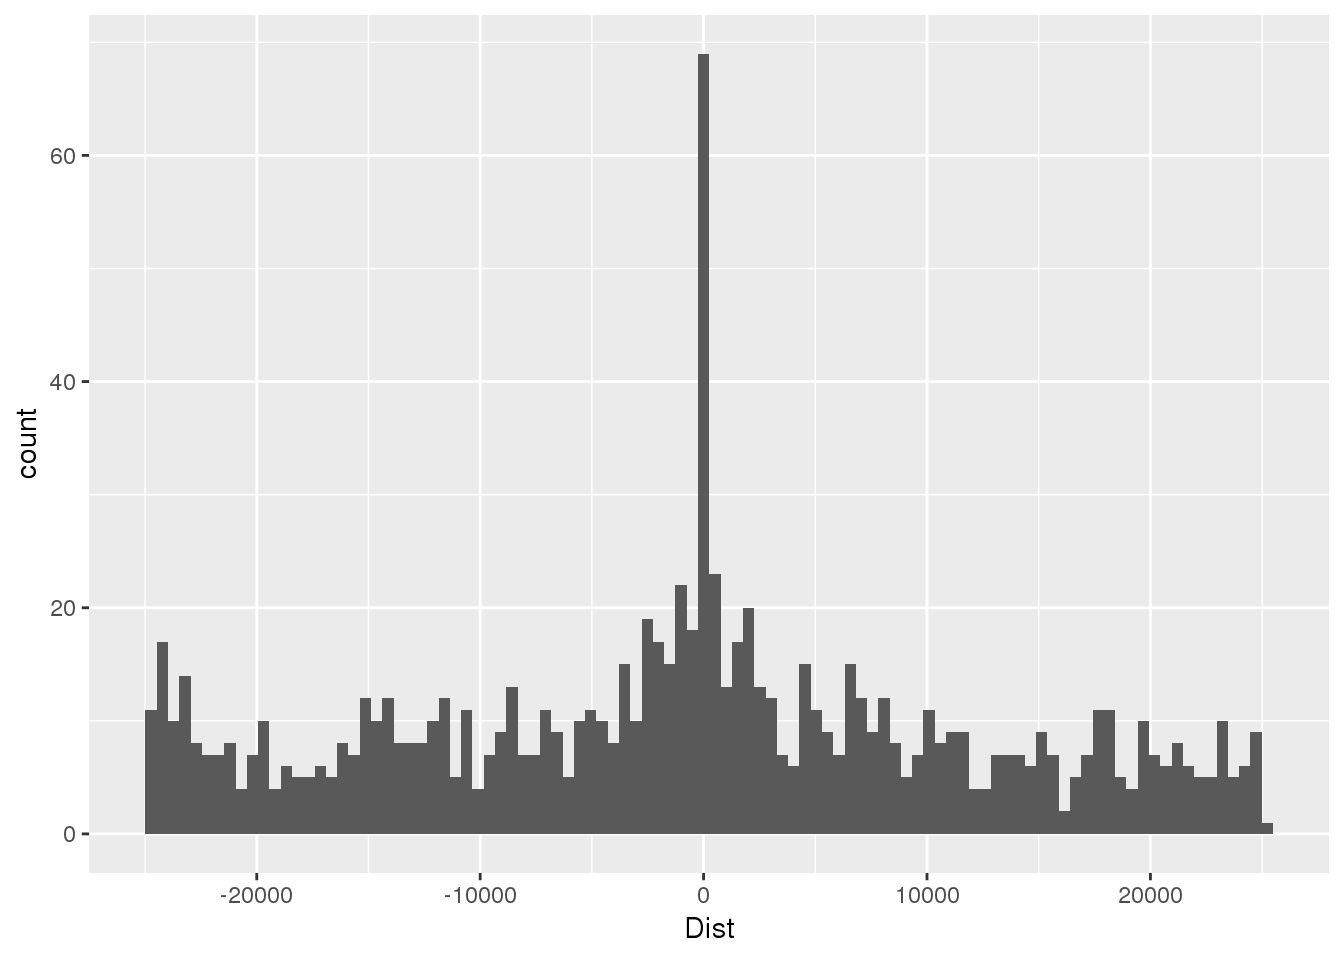
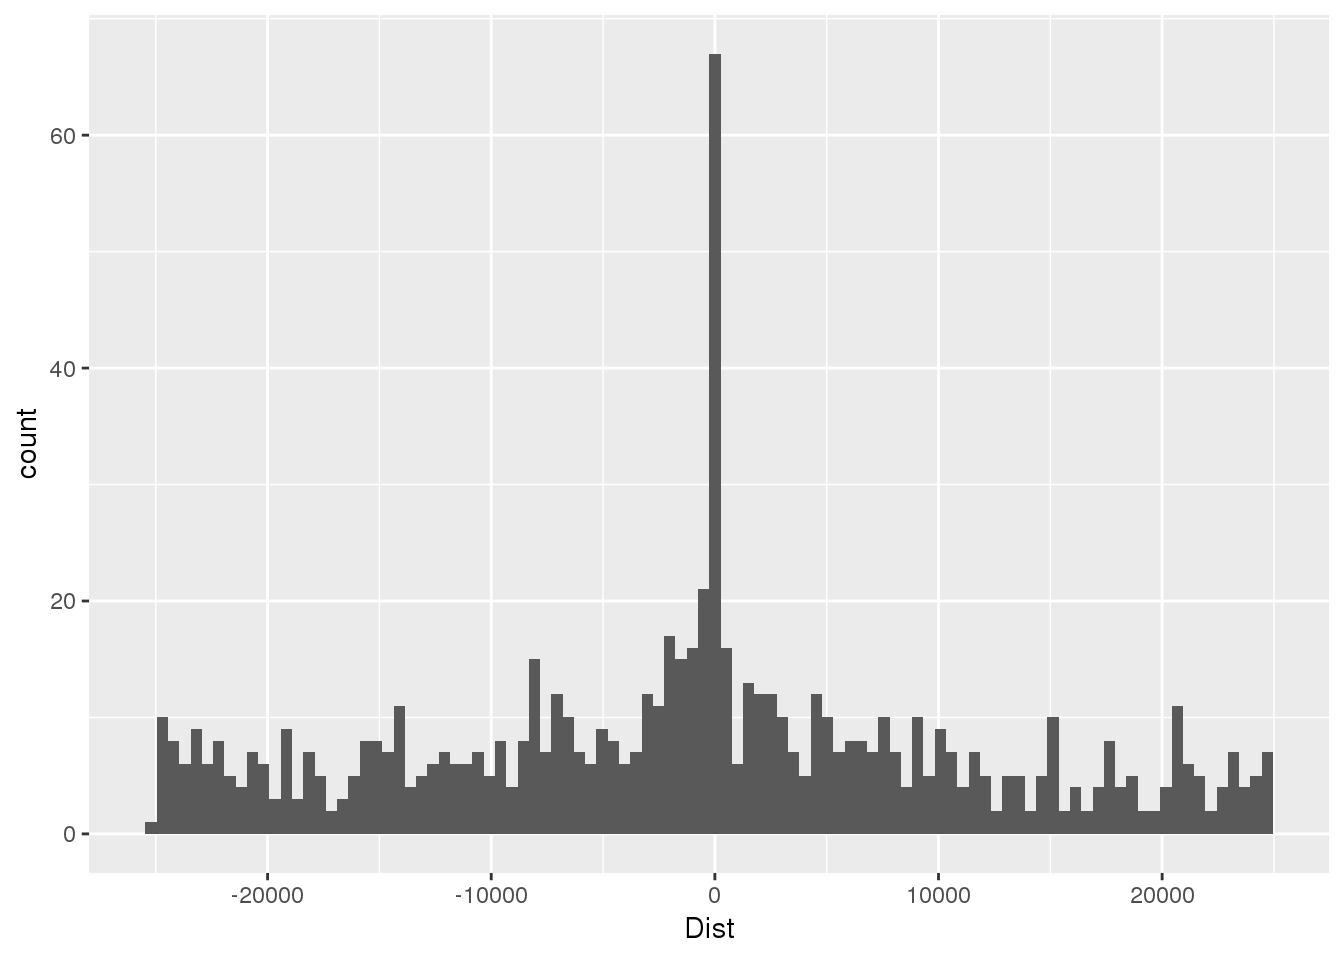
Build site.

diff --git a/docs/motifDisruption.html b/docs/motifDisruption.html
@@ -343,7 +343,7 @@ div.section {
 <div class="tab-content">
 <div id="summary" class="tab-pane fade in active">
 <p>
-<strong>Last updated:</strong> 2019-06-12
+<strong>Last updated:</strong> 2019-06-13
 </p>
 <p>
 <strong>Checks:</strong> <span class="glyphicon glyphicon-ok text-success" aria-hidden="true"></span> 6 <span class="glyphicon glyphicon-exclamation-sign text-danger" aria-hidden="true"></span> 0
@@ -422,10 +422,10 @@ This reproducible <a href="http://rmarkdown.rstudio.com">R Markdown</a> analysis
 <div class="panel panel-default">
 <div class="panel-heading">
 <p class="panel-title">
-<a data-toggle="collapse" data-parent="#workflowr-checks" href="#strongRepositoryversionstrongahrefhttpsgithubcombrimittlemanapaQTLtree1f203f7fbce00140046a8b314f1104df59df2835targetblank1f203f7a"> <span class="glyphicon glyphicon-ok text-success" aria-hidden="true"></span> <strong>Repository version:</strong> <a href="https://github.com/brimittleman/apaQTL/tree/1f203f7fbce00140046a8b314f1104df59df2835" target="_blank">1f203f7</a> </a>
+<a data-toggle="collapse" data-parent="#workflowr-checks" href="#strongRepositoryversionstrongahrefhttpsgithubcombrimittlemanapaQTLtree02db3a7cc3219be6a76e6f917ccc69c394b984b5targetblank02db3a7a"> <span class="glyphicon glyphicon-ok text-success" aria-hidden="true"></span> <strong>Repository version:</strong> <a href="https://github.com/brimittleman/apaQTL/tree/02db3a7cc3219be6a76e6f917ccc69c394b984b5" target="_blank">02db3a7</a> </a>
 </p>
 </div>
[2 lines of base64/hex data omitted]
 <div class="panel-body">
 <p>
 Great! You are using Git for version control. Tracking code development and connecting the code version to the results is critical for reproducibility. The version displayed above was the version of the Git repository at the time these results were generated. <br><br> Note that you need to be careful to ensure that all relevant files for the analysis have been committed to Git prior to generating the results (you can use <code>wflow_publish</code> or <code>wflow_git_commit</code>). workflowr only checks the R Markdown file, but you know if there are other scripts or data files that it depends on. Below is the status of the Git repository when the results were generated:
@@ -435,6 +435,7 @@ Ignored files:
     Ignored:    .DS_Store
     Ignored:    .Rhistory
     Ignored:    .Rproj.user/
+    Ignored:    data/.DS_Store
     Ignored:    output/.DS_Store
 
 Untracked files:
@@ -444,6 +445,7 @@ Untracked files:
     Untracked:  _workflowr.yml
     Untracked:  analysis/._PASdescriptiveplots.Rmd
     Untracked:  analysis/._cuttoffPercUsage.Rmd
+    Untracked:  analysis/QTLexampleplots.Rmd
     Untracked:  analysis/cuttoffPercUsage.Rmd
     Untracked:  analysis/eQTLoverlap.Rmd
     Untracked:  analysis/oldstuffNotNeeded.Rmd
@@ -670,6 +672,7 @@ Untracked files:
     Untracked:  code/apaQTLCorrectPvalMakeQQ_4pc.R
     Untracked:  code/apaQTL_Nominal_4pc.sh
     Untracked:  code/apaQTL_permuted.4pc.sh
+    Untracked:  code/apafacetboxplots.R
     Untracked:  code/apaqtlfacetboxplots.R
     Untracked:  code/assignNucIntonpeak2intronlocs.sh
     Untracked:  code/assignPeak2Intronicregion.err
@@ -828,6 +831,7 @@ Untracked files:
     Untracked:  code/vcf_keepsnps.out
     Untracked:  code/zipandtabPhen.err
     Untracked:  code/zipandtabPhen.out
+    Untracked:  data/._.DS_Store
     Untracked:  data/ApaByEgene/
     Untracked:  data/CompareOldandNew/
     Untracked:  data/DTmatrix/
@@ -902,12 +906,8 @@ Untracked files:
     Untracked:  output/meanCorrelationPhenotypes.svg
 
 Unstaged changes:
-    Modified:   analysis/DiffIsoAnalysis.Rmd
-    Modified:   analysis/PASusageQC.Rmd
     Modified:   analysis/Readdistagainstfeatures.Rmd
-    Modified:   analysis/choosePCs.Rmd
-    Modified:   analysis/corrbetweenind.Rmd
-    Modified:   analysis/mapapaQTL.Rmd
+    Modified:   analysis/index.Rmd
     Modified:   analysis/nascenttranscription.Rmd
     Modified:   analysis/nucintronicanalysis.Rmd
     Modified:   analysis/overlapapaqtlsandeqtls.Rmd
@@ -916,13 +916,16 @@ Unstaged changes:
     Modified:   code/Snakefile
     Deleted:    code/Upstream10Bases_general.py
     Modified:   code/apaQTLCorrectPvalMakeQQ.R
+    Modified:   code/apaQTL_Nominal.sh
     Modified:   code/apaQTL_permuted.sh
     Modified:   code/apaQTLsnake.err
     Modified:   code/bam2bw.sh
     Modified:   code/bed2saf.py
     Modified:   code/cluster.json
+    Modified:   code/clusterfiltPAS.json
     Modified:   code/config.yaml
     Modified:   code/environment.yaml
+    Modified:   code/makePheno.py
     Deleted:    code/test.txt
 
 </code></pre>
@@ -962,6 +965,40 @@ Message
 </tr>
 </thead>
 <tbody>
+<tr>
+<td>
+Rmd
+</td>
+<td>
+<a href="https://github.com/brimittleman/apaQTL/blob/02db3a7cc3219be6a76e6f917ccc69c394b984b5/analysis/motifDisruption.Rmd" target="_blank">02db3a7</a>
+</td>
+<td>
+brimittleman
+</td>
+<td>
+2019-06-13
+</td>
+<td>
+fixbug
+</td>
+</tr>
+<tr>
+<td>
+html
+</td>
+<td>
+<a href="https://rawcdn.githack.com/brimittleman/apaQTL/e783f5c94de855600d239dd0b427e1721d36890e/docs/motifDisruption.html" target="_blank">e783f5c</a>
+</td>
+<td>
+brimittleman
+</td>
+<td>
+2019-06-12
+</td>
+<td>
+Build site.
+</td>
+</tr>
 <tr>
 <td>
 Rmd
@@ -1022,12 +1059,12 @@ add motif disruption
 </div>
 <p>In this analysis I will identify apaQTL that modify signal sites for the associated PAS. To do this I will look at the sequences 5bp up and downtream of each QTL snp and look for evidence of AATAAA disruption.</p>
 <pre class="r"><code>library(tidyverse)</code></pre>
-<pre><code>── Attaching packages ─────────────────────────────────────────────────────────────────────────── tidyverse 1.2.1 ──</code></pre>
+<pre><code>── Attaching packages ─────────────────────────────────────────────────────────────── tidyverse 1.2.1 ──</code></pre>
 <pre><code>✔ ggplot2 3.1.1       ✔ purrr   0.3.2  
 ✔ tibble  2.1.1       ✔ dplyr   0.8.0.1
 ✔ tidyr   0.8.3       ✔ stringr 1.3.1  
 ✔ readr   1.3.1       ✔ forcats 0.3.0  </code></pre>
-<pre><code>── Conflicts ────────────────────────────────────────────────────────────────────────────── tidyverse_conflicts() ──
+<pre><code>── Conflicts ────────────────────────────────────────────────────────────────── tidyverse_conflicts() ──
 ✖ dplyr::filter() masks stats::filter()
 ✖ dplyr::lag()    masks stats::lag()</code></pre>
 <pre class="r"><code>library(BSgenome)</code></pre>
@@ -1119,10 +1156,85 @@ write.table(nucQTLbed, file=&quot;../data/motifdistrupt/NucQTLregion.bed&quot;, 
 <p>First plot the distance:</p>
 <pre class="r"><code>ggplot(totSeq,aes(x=Dist)) + geom_histogram(bins=100)</code></pre>
 <p><img src="figure/motifDisruption.Rmd/unnamed-chunk-8-1.png" width="672" style="display: block; margin: auto;" /></p>
+<p>
+<button type="button" class="btn btn-default btn-xs btn-workflowr btn-workflowr-fig" data-toggle="collapse" data-target="#fig-unnamed-chunk-8-1">
+Past versions of unnamed-chunk-8-1.png
+</button>
+</p>
+<div id="fig-unnamed-chunk-8-1" class="collapse">
+<div class="table-responsive">
+<table class="table table-condensed table-hover">
+<thead>
+<tr>
+<th>
+Version
+</th>
+<th>
+Author
+</th>
+<th>
+Date
+</th>
+</tr>
+</thead>
+<tbody>
+<tr>
+<td>
+<a href="https://github.com/brimittleman/apaQTL/blob/e783f5c94de855600d239dd0b427e1721d36890e/docs/figure/motifDisruption.Rmd/unnamed-chunk-8-1.png" target="_blank">e783f5c</a>
+</td>
+<td>
+brimittleman
+</td>
+<td>
+2019-06-12
+</td>
+</tr>
+</tbody>
+</table>
+</div>
+</div>
 <pre class="r"><code>nucSeq=read.table(&quot;../data/motifdistrupt/NucQTLregionSequences.bed&quot;, header = F, stringsAsFactors = F, col.names =c(&quot;chr&quot;,&quot;start&quot;, &quot;end&quot;, &quot;name&quot;, &quot;Dist&quot;, &quot;strand&quot;, &quot;pctAT&quot;, &quot;pctGC&quot;, &quot;numA&quot;, &quot;numC&quot;, &quot;numG&quot;, &quot;numT&quot;, &quot;numN&quot;, &quot;numoth&quot;, &quot;length&quot;, &quot;seq&quot;) )</code></pre>
 <p>First plot the distance:</p>
 <pre class="r"><code>ggplot(nucSeq,aes(x=Dist)) + geom_histogram(bins=100)</code></pre>
-<p><img src="figure/motifDisruption.Rmd/unnamed-chunk-10-1.png" width="672" style="display: block; margin: auto;" /> Try with getting the sequences with bedtools getfasta (This reverse compliments the negative strand)</p>
+<p><img src="figure/motifDisruption.Rmd/unnamed-chunk-10-1.png" width="672" style="display: block; margin: auto;" /></p>
+<p>
+<button type="button" class="btn btn-default btn-xs btn-workflowr btn-workflowr-fig" data-toggle="collapse" data-target="#fig-unnamed-chunk-10-1">
+Past versions of unnamed-chunk-10-1.png
+</button>
+</p>
+<div id="fig-unnamed-chunk-10-1" class="collapse">
+<div class="table-responsive">
+<table class="table table-condensed table-hover">
+<thead>
+<tr>
+<th>
+Version
+</th>
+<th>
+Author
+</th>
+<th>
+Date
+</th>
+</tr>
+</thead>
+<tbody>
+<tr>
+<td>
+<a href="https://github.com/brimittleman/apaQTL/blob/e783f5c94de855600d239dd0b427e1721d36890e/docs/figure/motifDisruption.Rmd/unnamed-chunk-10-1.png" target="_blank">e783f5c</a>
+</td>
+<td>
+brimittleman
+</td>
+<td>
+2019-06-12
+</td>
+</tr>
+</tbody>
+</table>
+</div>
+</div>
+<p>Try with getting the sequences with bedtools getfasta (This reverse compliments the negative strand)</p>
 <pre class="bash"><code>sbatch getQTLfastq.sh</code></pre>
 <p>extract the sequences from these to match with the nuc file above. This is important because this uses the reverse compliment. The snp is the 6th letter.<br />
 (fraction is Tot /Nuc)</p>
@@ -1133,51 +1245,52 @@ TotSeqComp=as.data.frame(cbind(totSeq,Totsequp)) %&gt;% mutate(sig=ifelse(grepl(
 TotSeqCompSig=TotSeqComp %&gt;% filter(sig==1)
 TotSeqCompSig</code></pre>
 <pre><code>  chr     start       end                     name Dist strand    pctAT
-1  19  16438656  16438667      KLF2:peak64649:utr3  454      + 0.909091
-2  19  16438656  16438667      KLF2:peak64650:utr3   63      + 0.909091
-3  19  58433644  58433655    ZNF418:peak68038:utr3   18      - 0.818182
-4   2 197855147 197855158 ANKRD44:peak77452:intron   20      - 1.000000
-5   7 107562562 107562573       DLD:peak124968:end   61      + 0.727273
+1  15 101610289 101610300     LRRK1:peak47802:utr3   67      + 0.818182
+2  19  16438656  16438667      KLF2:peak64649:utr3  454      + 0.909091
+3  19  16438656  16438667      KLF2:peak64650:utr3   63      + 0.909091
+4  19  43978507  43978518    PHLDB3:peak66481:utr3 -746      - 1.000000
+5   2 131132114 131132125    PTPN18:peak74525:utr3 -776      + 0.818182
+6   2 197855147 197855158 ANKRD44:peak77452:intron   20      - 1.000000
      pctGC numA numC numG numT numN numoth length         seq  CorrectSeq
-1 0.090909    8    1    0    2    0      0     11 AAAATAAAACT AAAATAAAACT
+1 0.181818    8    1    1    1    0      0     11 AAAATAAACAG AAAATAAACAG
 2 0.090909    8    1    0    2    0      0     11 AAAATAAAACT AAAATAAAACT
-3 0.181818    3    2    0    6    0      0     11 cttttattaac GTTAATAAAAG
-4 0.000000    5    0    0    6    0      0     11 TTTATTTAAAA TTTTAAATAAA
-5 0.272727    6    3    0    2    0      0     11 ctcaataaaca CTCAATAAACA
+3 0.090909    8    1    0    2    0      0     11 AAAATAAAACT AAAATAAAACT
+4 0.000000    1    0    0   10    0      0     11 ttttatttttt AAAAAATAAAA
+5 0.181818    8    0    2    1    0      0     11 AGAAATAAAAG AGAAATAAAAG
+6 0.000000    5    0    0    6    0      0     11 TTTATTTAAAA TTTTAAATAAA
   sig
 1   1
 2   1
 3   1
 4   1
-5   1</code></pre>
+5   1
+6   1</code></pre>
 <pre class="r"><code>Nucsequp=read.table(&quot;../data/motifdistrupt/NucQTLregionSequenceOnly.txt&quot;, header = F, stringsAsFactors = F, col.names = &quot;CorrectSeq&quot;)
 NucSeqComp=as.data.frame(cbind(nucSeq,Nucsequp)) %&gt;% mutate(sig=ifelse(grepl(&quot;AATAAA&quot;,CorrectSeq),1, 0))
 NucSeqCompSig=NucSeqComp %&gt;% filter(sig==1)
 NucSeqCompSig</code></pre>
-<pre><code>   chr     start       end                     name   Dist strand    pctAT
-1   11 121500616 121500627     SORL1:peak26194:utr3     64      + 0.818182
-2   12  54712768  54712779   COPZ1:peak30032:intron  -7514      + 0.909091
-3   15 101610289 101610300     LRRK1:peak47802:utr3     67      + 0.818182
-4   15 101610289 101610300     LRRK1:peak47806:utr3  -2713      + 0.818182
-5   19  16438656  16438667      KLF2:peak64649:utr3    454      + 0.909091
-6   19  16438656  16438667      KLF2:peak64650:utr3     63      + 0.909091
-7   19  58433644  58433655    ZNF418:peak68038:utr3     18      - 0.818182
-8    2 197855147 197855158 ANKRD44:peak77452:intron     20      - 1.000000
-9    4  84367754  84367765   MRPS18C:peak99426:utr3 -14538      + 0.727273
-10   4  84367754  84367765   MRPS18C:peak99427:utr3 -14730      + 0.727273
-11   6 167409236 167409247   MIR3939:peak119106:end   1476      - 1.000000
+<pre><code>   chr     start       end                   name   Dist strand    pctAT
+1   15 101610289 101610300   LRRK1:peak47802:utr3     67      + 0.818182
+2   15 101610289 101610300   LRRK1:peak47806:utr3  -2713      + 0.818182
+3   19  16438656  16438667    KLF2:peak64649:utr3    454      + 0.909091
+4   19  16438656  16438667    KLF2:peak64650:utr3     63      + 0.909091
+5   19  43978507  43978518  PHLDB3:peak66481:utr3   -746      - 1.000000
+6   19  58433644  58433655  ZNF418:peak68038:utr3     18      - 0.818182
+7    2  33775278  33775289 RASGRP3:peak69728:utr3 -12759      + 1.000000
+8    4  84367754  84367765 MRPS18C:peak99427:utr3 -14730      + 0.727273
+9    6 167409236 167409247 MIR3939:peak119106:end   1476      - 1.000000
+10   6 167409236 167409247 MIR3939:peak119107:end  -1662      - 1.000000
       pctGC numA numC numG numT numN numoth length         seq  CorrectSeq
-1  0.181818    7    2    0    2    0      0     11 TAATAAAAACC TAATAAAAACC
-2  0.090909    6    1    0    4    0      0     11 catttaataaa CATTTAATAAA
-3  0.181818    8    1    1    1    0      0     11 AAAATAAACAG AAAATAAACAG
-4  0.181818    8    1    1    1    0      0     11 AAAATAAACAG AAAATAAACAG
-5  0.090909    8    1    0    2    0      0     11 AAAATAAAACT AAAATAAAACT
-6  0.090909    8    1    0    2    0      0     11 AAAATAAAACT AAAATAAAACT
-7  0.181818    3    2    0    6    0      0     11 cttttattaac GTTAATAAAAG
-8  0.000000    5    0    0    6    0      0     11 TTTATTTAAAA TTTTAAATAAA
-9  0.272727    7    2    1    1    0      0     11 agccAATAAAA AGCCAATAAAA
-10 0.272727    7    2    1    1    0      0     11 agccAATAAAA AGCCAATAAAA
-11 0.000000    2    0    0    9    0      0     11 tattttttatt AATAAAAAATA
+1  0.181818    8    1    1    1    0      0     11 AAAATAAACAG AAAATAAACAG
+2  0.181818    8    1    1    1    0      0     11 AAAATAAACAG AAAATAAACAG
+3  0.090909    8    1    0    2    0      0     11 AAAATAAAACT AAAATAAAACT
+4  0.090909    8    1    0    2    0      0     11 AAAATAAAACT AAAATAAAACT
+5  0.000000    1    0    0   10    0      0     11 ttttatttttt AAAAAATAAAA
+6  0.181818    3    2    0    6    0      0     11 cttttattaac GTTAATAAAAG
+7  0.000000    8    0    0    3    0      0     11 ataataaataa ATAATAAATAA
+8  0.272727    7    2    1    1    0      0     11 agccAATAAAA AGCCAATAAAA
+9  0.000000    2    0    0    9    0      0     11 tattttttatt AATAAAAAATA
+10 0.000000    2    0    0    9    0      0     11 tattttttatt AATAAAAAATA
    sig
 1    1
 2    1
@@ -1188,8 +1301,7 @@ NucSeqCompSig</code></pre>
 7    1
 8    1
 9    1
-10   1
-11   1</code></pre>
+10   1</code></pre>
 <p>These are pretty far from the peak and probably not the mechanism for these.</p>
 <p>I can look at this another way by subsetting to those close to the peak.</p>
 <pre class="r"><code>TotSeqComp_Close=TotSeqComp %&gt;% filter(abs(Dist)&lt;200) %&gt;% select(name,Dist,CorrectSeq,sig)
@@ -1198,7 +1310,6 @@ NucSeqComp_Close=NucSeqComp %&gt;% filter(abs(Dist)&lt;200) %&gt;% select(name,D
 <p><strong>Nuclear: </strong></p>
 <p>Disrupt: - ZNF418 rs75991626 T C (break signal site for peak68038), also associated with increased usage of the downstream UTR pas.</p>
 <ul>
-<li><p>SORL1:peak26194:utr3 rs75085036 A-T disrupt signal site for UTR pas</p></li>
 <li><p>LRRK1:peak47802:utr3 rs15342 T-C disrupt signal site for peak47802</p></li>
 <li><p>KLF2:peak64650:utr3 rs11086029 T- A disrupt signal site for peak64650, increased usage of upstream pas still in UTR</p></li>
 <li><p>ANKRD44:peak77452:intron rs715185 T-C disrupt signal site for ANKRD44</p></li>
@@ -1209,8 +1320,12 @@ NucSeqComp_Close=NucSeqComp %&gt;% filter(abs(Dist)&lt;200) %&gt;% select(name,D
 <ul>
 <li><p>ANKRD44:peak77452:intron rs715185 T-C disrupt signal site for ANKRD44</p></li>
 <li><p>KLF2:peak64650:utr3 rs11086029 T- A disrupt signal site for peak64650, increased usage of upstream pas still in UTR</p></li>
-<li><p>DLD:peak124968:end rs144143960 A-G disrupt site for peak124968</p></li>
 </ul>
+<p>Make boxplots for these:</p>
+<p>I wrote the code for these in the <a href="%22QTLexampleplots.html%22">example plots analysis</a></p>
+<p>Fraction=$1 gene=$2 chrom=$3 snp=$4 peakID=$5</p>
+<pre class="bash"><code>sbatch run_qtlFacetBoxplots.sh Nuclear ZNF418 19 rs75991626 peak68038
+</code></pre>
 <p>This is not the best way to look at this. It may be a snp in LD. Also this is the distance to the peak not the PAS.</p>
 <br>
 <p>
